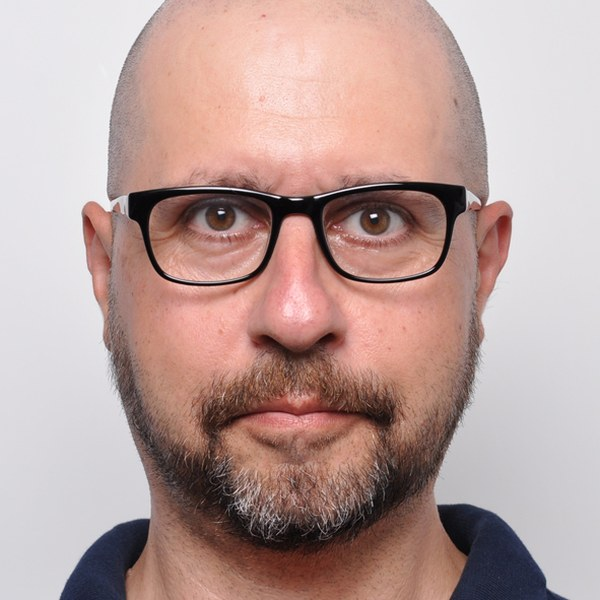
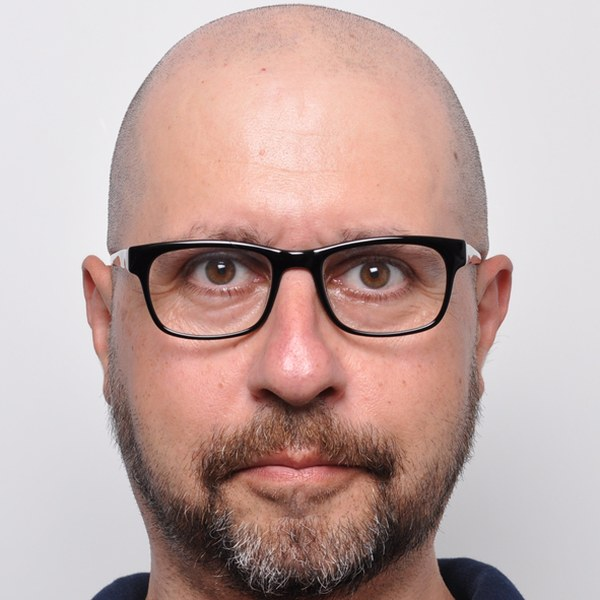
Reframe photo; reorder fields
Claude-Session: https://claude.ai/code/session_01ML8A4BoocgbbuYK6og7Fqp

diff --git a/index.html b/index.html
@@ -65,7 +65,7 @@
       <h1>Georgi Kocharkov</h1>
       <p class="role">Senior Economist, Research Centre, Deutsche Bundesbank
         <small>Member of the <a href="https://cea.egov.bg/wps/portal/cea-web-en/home">Bulgarian Council for Economic Analyses</a></small></p>
-      <p class="fields">Macroeconomics · Public Economics · Household Finance</p>
+      <p class="fields">Household Finance · Macroeconomics · Public Economics</p>
       <p class="contact">
         <a href="mailto:georgi@kocharkov.com">georgi@kocharkov.com</a>
         <a href="cv.pdf">CV (PDF)</a>
